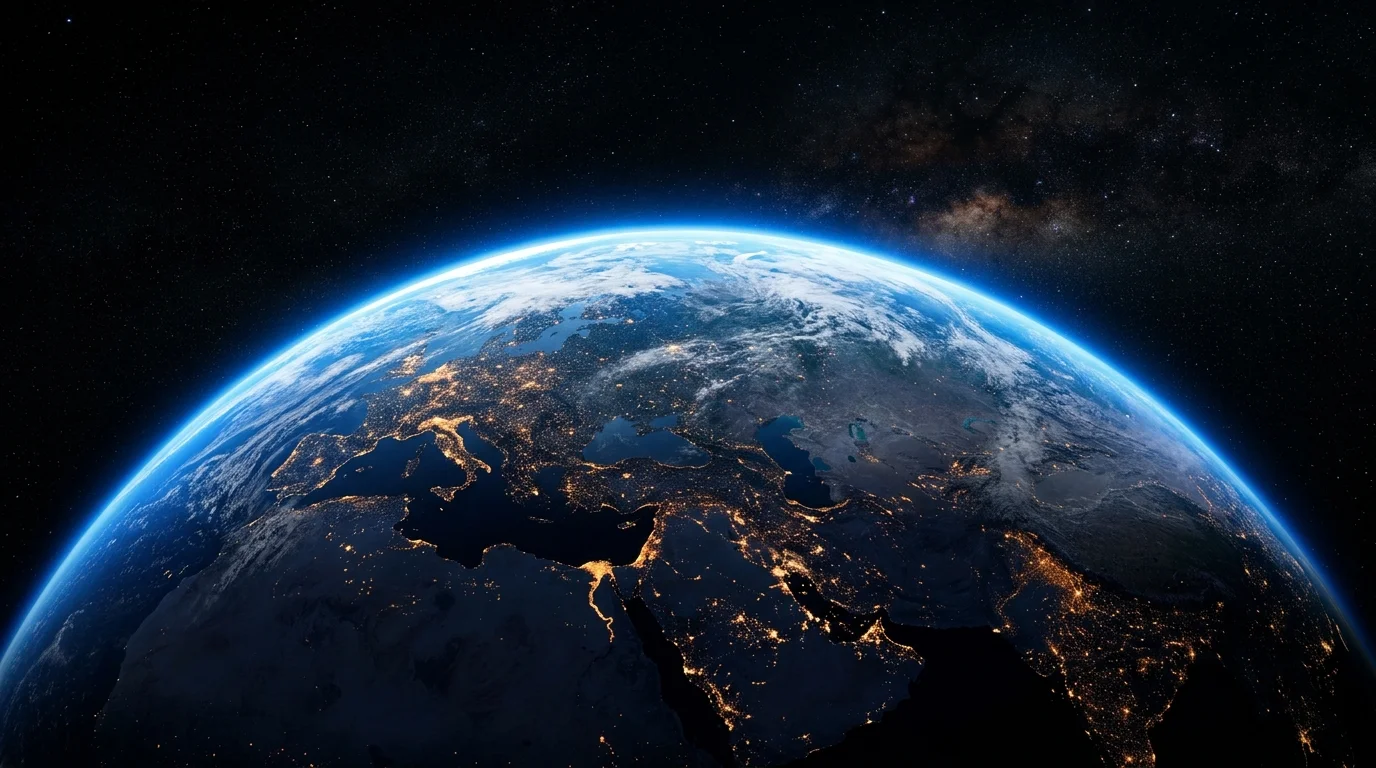
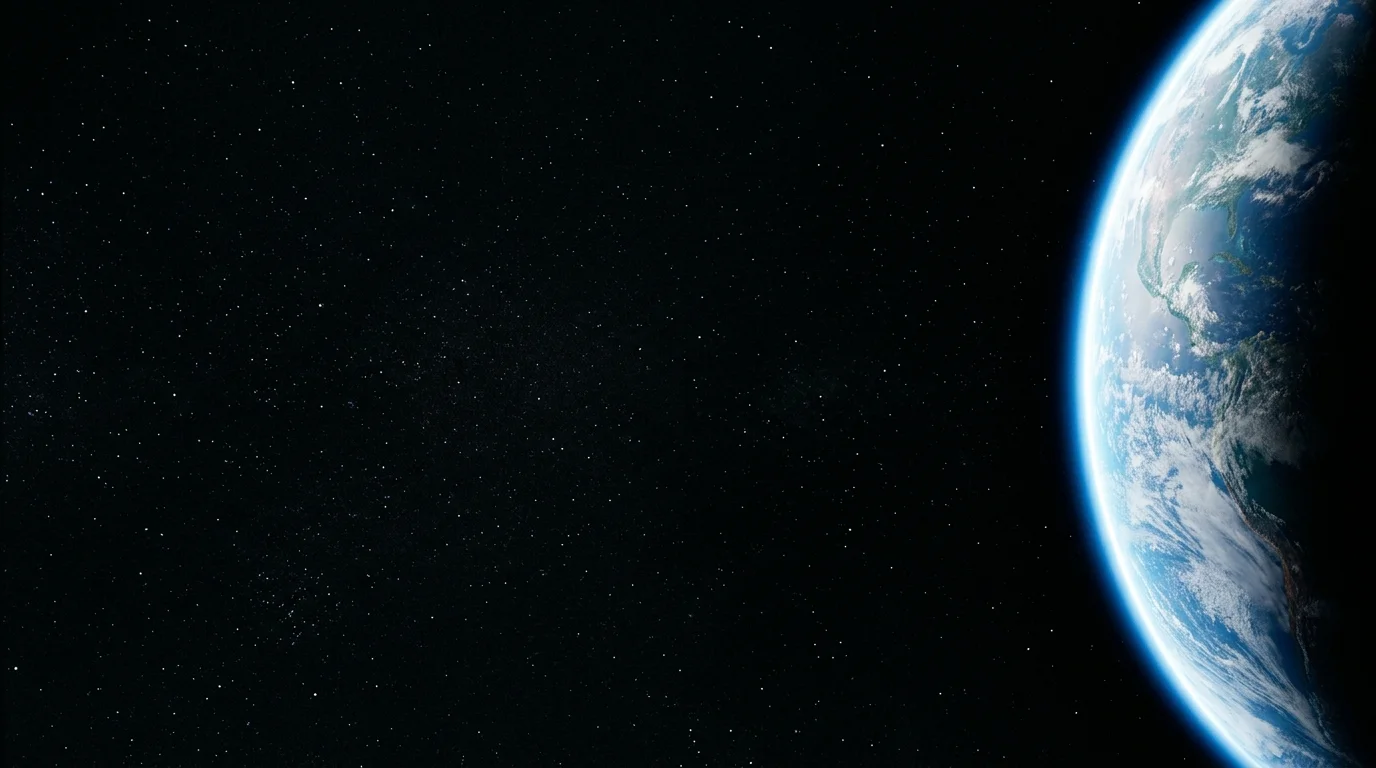
fix(css): align navbar container grid, add dark aerospace scrollbars, and enhance hero contrast

diff --git a/apps/web/src/components/marketing/FullBleedSection.tsx b/apps/web/src/components/marketing/FullBleedSection.tsx
@@ -11,6 +11,7 @@ export interface FullBleedSectionProps {
   priority?: boolean;
   children: React.ReactNode;
   align?: "left" | "center";
+  contentVerticalAlign?: "center" | "top";
   className?: string;
   isBlackOnly?: boolean;
 }
@@ -22,6 +23,7 @@ export function FullBleedSection({
   priority = false,
   children,
   align = "left",
+  contentVerticalAlign = "center",
   className = "",
   isBlackOnly = false,
 }: FullBleedSectionProps) {
@@ -47,10 +49,10 @@ export function FullBleedSection({
             onError={() => setHasImageError(true)}
             className="object-cover object-center"
           />
-          {/* Uniform subtle dim overlay (max rgba(0,0,0,0.35)) */}
+          {/* Uniform subtle dim overlay (max rgba(0,0,0,0.40)) */}
           <div
             className="absolute inset-0"
-            style={{ backgroundColor: "rgba(0, 0, 0, 0.35)" }}
+            style={{ backgroundColor: "rgba(0, 0, 0, 0.40)" }}
             aria-hidden="true"
           />
         </div>
@@ -59,10 +61,16 @@ export function FullBleedSection({
       )}
 
       {/* Content Layer (Left-aligned in left third, 30-35% width, max 500px, 18px element gap) */}
-      <div className="w-full max-w-7xl mx-auto px-6 sm:px-10 lg:px-16 py-24 sm:py-32 z-10 flex min-h-screen items-center">
+      <div
+        className={`w-full max-w-7xl mx-auto px-6 sm:px-10 lg:px-16 py-24 sm:py-32 z-10 flex min-h-screen ${
+          contentVerticalAlign === "top"
+            ? "items-center sm:items-start sm:pt-36 lg:pt-40"
+            : "items-center"
+        }`}
+      >
         <div
           className={`w-full max-w-[500px] flex flex-col gap-[18px] transition-opacity duration-300 ${
-            align === "center" ? "mx-auto text-center items-center" : "self-end sm:self-center pb-12 sm:pb-0"
+            align === "center" ? "mx-auto text-center items-center" : "self-end sm:self-auto pb-12 sm:pb-0"
           }`}
         >
           {children}

diff --git a/apps/web/src/components/Navbar.tsx b/apps/web/src/components/Navbar.tsx
@@ -73,7 +73,7 @@ export function Navbar({ onStartTour }: { onStartTour?: () => void }) {
 
   return (
     <header className="sticky top-0 z-40 bg-void/90 backdrop-blur-md border-b border-white/10 transition-colors w-full">
-      <div className="w-full max-w-screen-2xl mx-auto px-3 sm:px-4 lg:px-6">
+      <div className="w-full max-w-7xl mx-auto px-4 sm:px-6 lg:px-8">
         <div className="flex items-center justify-between h-16 w-full gap-2">
           {/* Logo & Platform Name */}
           <div className="flex items-center gap-2.5 shrink-0">
@@ -120,8 +120,8 @@ export function Navbar({ onStartTour }: { onStartTour?: () => void }) {
             </div>
           </div>
 
-          {/* Nav Links (Desktop >= 1280px) */}
-          <nav className="hidden xl:flex items-center space-x-0.5 shrink-0">
+          {/* Nav Links (Desktop >= 1024px) */}
+          <nav className="hidden lg:flex items-center space-x-0.5 shrink-0">
             {navLinks.map((link) => {
               const Icon = link.icon;
               const isActive = pathname === link.href;
@@ -198,9 +198,9 @@ export function Navbar({ onStartTour }: { onStartTour?: () => void }) {
         </div>
       </div>
 
-      {/* Sub-navigation bar for screens < 1280px */}
-      <div className="xl:hidden border-t border-white/5 bg-charcoal px-3 py-2 flex overflow-x-auto space-x-2 scrollbar-none items-center justify-between">
-        <div className="flex space-x-2 overflow-x-auto">
+      {/* Sub-navigation bar for screens < 1024px */}
+      <div className="lg:hidden border-t border-white/5 bg-charcoal px-3 py-2 flex overflow-x-auto space-x-2 scrollbar-none items-center justify-between">
+        <div className="flex space-x-2 overflow-x-auto scrollbar-none">
           {navLinks.map((link) => {
             const Icon = link.icon;
             const isActive = pathname === link.href;

diff --git a/apps/web/src/app/globals.css b/apps/web/src/app/globals.css
@@ -3,7 +3,7 @@
 @tailwind utilities;
 
 :root {
-  /* Colors from design.md */
+  /* Colors from design-dashboard.md */
   --color-void-canvas: #080808;
   --color-absolute-black: #000000;
   --color-charcoal-plate: #171617;
@@ -44,9 +44,20 @@
   --spacing-64: 64px;
 }
 
+*,
+*::before,
+*::after {
+  box-sizing: border-box;
+}
+
+html {
+  scroll-behavior: smooth;
+  color-scheme: dark;
+}
+
 html,
 body {
-  background-color: var(--color-void-canvas);
+  background-color: #000000;
   color: var(--color-bone-white);
   font-family: var(--font-inter), ui-sans-serif, system-ui, sans-serif;
   overflow-x: hidden;
@@ -55,6 +66,32 @@ body {
   margin: 0;
   padding: 0;
   -webkit-font-smoothing: antialiased;
+  -moz-osx-font-smoothing: grayscale;
+}
+
+/* Custom dark aerospace scrollbars */
+::-webkit-scrollbar {
+  width: 6px;
+  height: 6px;
+}
+::-webkit-scrollbar-track {
+  background: #080808;
+}
+::-webkit-scrollbar-thumb {
+  background: #262525;
+  border-radius: 3px;
+}
+::-webkit-scrollbar-thumb:hover {
+  background: #525252;
+}
+
+/* Scrollbar utilities */
+.scrollbar-none::-webkit-scrollbar {
+  display: none;
+}
+.scrollbar-none {
+  -ms-overflow-style: none;
+  scrollbar-width: none;
 }
 
 /* Custom utility classes per design.md */
@@ -100,6 +137,15 @@ body {
 }
 
 /* SpaceX-style marketing utilities */
+.font-d-din {
+  font-family: var(--font-d-din);
+}
+
+.font-d-din-bold {
+  font-family: var(--font-d-din-bold);
+  font-weight: 700;
+}
+
 .tnum {
   font-feature-settings: "tnum";
   font-variant-numeric: tabular-nums;
@@ -118,4 +164,3 @@ body {
     scroll-behavior: auto !important;
   }
 }
-

diff --git a/apps/web/src/components/DisasterDeck.tsx b/apps/web/src/components/DisasterDeck.tsx
@@ -112,7 +112,7 @@ export function DisasterDeck({
       </div>
 
       {/* Scenario Selector Pills */}
-      <div className="flex items-center gap-2 overflow-x-auto pb-1">
+      <div className="flex items-center gap-2 overflow-x-auto pb-1 scrollbar-none">
         {scenarios.map((s) => {
           const isSelected = s.id === selectedId;
           const isFlood = s.disaster_type === "flood";

diff --git a/apps/web/src/app/page.tsx b/apps/web/src/app/page.tsx
@@ -43,6 +43,7 @@ export default function MarketingHomePage() {
           imageSrc="/images/home/hero-earth.webp"
           imageAlt="Earth curvature against deep space void"
           priority
+          contentVerticalAlign="center"
         >
           <SectionHeadline as="h1">
             MONITOR THE SPACECRAFT. PREDICT THE THREAT.
